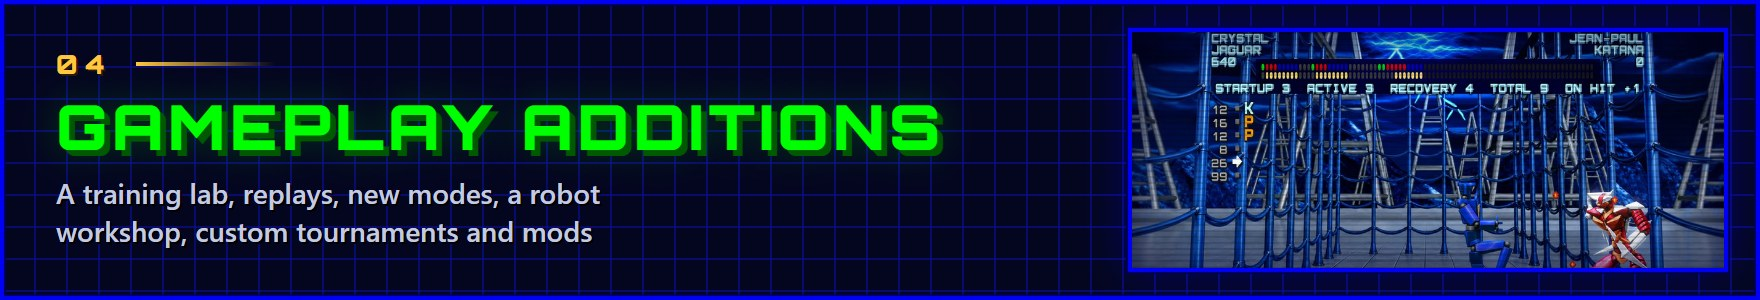
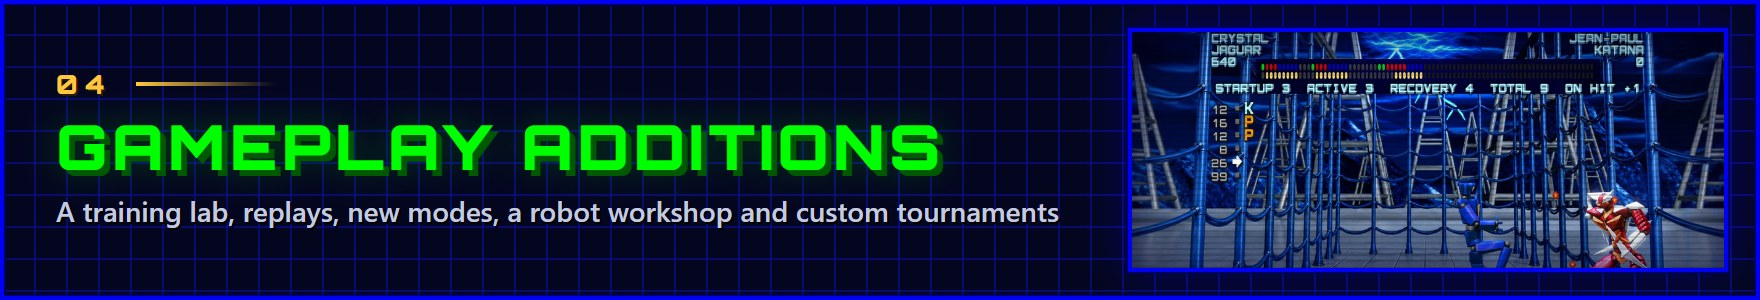
Present the new robots and arenas as the mod they are in the README
The game itself is the 1994 original: the README's first section now lists
only its content, and a new section, Mods & OMF Studio, holds the rest. It
explains mods, shows the new robots and arenas as the mod that comes with the
game (off until it is turned on) and as a complete example to open in OMF
Studio, and shows Studio with that mod open (its page, and GLACIER's ICE LANCE
being edited).

The later sections are numbered 06 to 10 (their banners and tiles made again
by tools/github/build.mjs), the Modding button goes to the new section, and the
other mentions of the new robots and arenas say they come as a mod.

Changed region(s): [[0.0312, 0.18, 0.625, 0.84]]

diff --git a/README.md b/README.md
@@ -6,7 +6,7 @@
   <a href="https://github.com/Jared-woodruff/OMF-2097-Remastered/releases/latest"><img src="docs/media/btn-download.png" alt="Download (free, for Windows)" height="56"></a>
   <a href="#trailer"><img src="docs/media/btn-trailer.png" alt="Trailer" height="56"></a>
   <a href="docs/manual/OMF-2097-Remastered-Manual.pdf"><img src="docs/media/btn-manual.png" alt="Manual (PDF)" height="56"></a>
-  <a href="docs/MODDING.md"><img src="docs/media/btn-modding.png" alt="Modding: mods and OMF Studio" height="56"></a>
+  <a href="#mods"><img src="docs/media/btn-modding.png" alt="Modding: mods and OMF Studio" height="56"></a>
 </p>
 
 <p align="center">
@@ -14,11 +14,12 @@
   <a href="#classic-remastered"><img src="docs/media/nav-modes.png" alt="02 Classic / Remastered" height="30"></a>
   <a href="#effects"><img src="docs/media/nav-effects.png" alt="03 Effects" height="30"></a>
   <a href="#gameplay"><img src="docs/media/nav-gameplay.png" alt="04 Gameplay" height="30"></a>
-  <a href="#screens"><img src="docs/media/nav-screens.png" alt="05 Screens" height="30"></a>
-  <a href="#artwork"><img src="docs/media/nav-artwork.png" alt="06 HD artwork" height="30"></a>
-  <a href="#get-started"><img src="docs/media/nav-start.png" alt="07 Get started" height="30"></a>
-  <a href="#under-the-hood"><img src="docs/media/nav-tech.png" alt="08 Under the hood" height="30"></a>
-  <a href="#credits"><img src="docs/media/nav-credits.png" alt="09 Credits" height="30"></a>
+  <a href="#mods"><img src="docs/media/nav-mods.png" alt="05 Mods and OMF Studio" height="30"></a>
+  <a href="#screens"><img src="docs/media/nav-screens.png" alt="06 Screens" height="30"></a>
+  <a href="#artwork"><img src="docs/media/nav-artwork.png" alt="07 HD artwork" height="30"></a>
+  <a href="#get-started"><img src="docs/media/nav-start.png" alt="08 Get started" height="30"></a>
+  <a href="#under-the-hood"><img src="docs/media/nav-tech.png" alt="09 Under the hood" height="30"></a>
+  <a href="#credits"><img src="docs/media/nav-credits.png" alt="10 Credits" height="30"></a>
 </p>
 
 <br>
@@ -31,7 +32,7 @@ https://github.com/user-attachments/assets/f226b2fa-c56a-4cce-b47a-8917a0448cf6
   <sub>A fan trailer with no narrator. It starts in 1994: a beige PC boots, the game is installed from two floppy disks,
   and it runs in its own pixels to its main menu theme (played by this port's music engine). Then, 32 years later, the
   picture sweeps into HD on the drop of Hadal Static's <i>Twenty Ninety-Seven (Remix)</i>: fights at ULTIMATE at the
-  game's own pace, the classic look against the new one, the new robots and arenas, every feature and the fought-out
+  game's own pace, the classic look against the new one, the new robots and arenas mod, every feature and the fought-out
   credits, cut to the song's bars (turn the sound on). <a href="docs/media/trailer.mp4">Watch it in 1080p60</a>.</sub>
 </p>
 
@@ -58,8 +59,9 @@ engine in TypeScript and WebGL2 that plays the **original game data**, runs in a
     <td width="33%" valign="top">
       <h3><img src="docs/media/icon-modern.png" alt="" width="26" align="top"> Modern</h3>
       Replays and clips, a training lab with frame data and combo trials, a robot workshop, arcade, survival and time
-      attack modes, custom tournaments, mods made with OMF Studio, gamepads with rumble, touch controls, one-button
-      specials, and a browser version that works offline.
+      attack modes, custom tournaments, mods and the OMF Studio mod tools (with a mod of four new robots and four
+      arenas to play and take apart), gamepads with rumble, touch controls, one-button specials, and a browser version
+      that works offline.
     </td>
   </tr>
 </table>
@@ -83,9 +85,9 @@ and the command lists come from the game's own data.
 The whole game is here, playing the original data files:
 
 - **All 11 robots** (HARs) with every move, special and throw, **10 pilots plus Major Kreissack**, and the CPU
-  opponent's personalities and difficulty levels, plus **four new robots** you can turn on (below).
+  opponent's personalities and difficulty levels.
 - **The five arenas and their hazards**: the Stadium, the spiked Danger Room, the Power Plant's electrified fences,
-  the Fire Pit's fireballs and the Desert's strafing jets, plus **four new arenas** you can turn on (below).
+  the Fire Pit's fireballs and the Desert's strafing jets.
 - **Every mode**: one player, two players, demo, the full **tournament** career with the mechlab, upgrades, training
   and newsroom, the scoreboard, the intro and all endings.
 - **The original music and sound**: the PSM soundtrack through a port of the MASI driver, the original samples, and
@@ -97,55 +99,9 @@ The whole game is here, playing the original data files:
   <img src="docs/media/arenas.jpg" alt="The five arenas: Stadium, Danger Room, Power Plant, Fire Pit and The Desert" width="100%">
 </p>
 
-### New for the remaster: four robots, four arenas
-
-Built for this remaster in the spirit of the originals, and packaged as a mod that comes with the game. They are **off
-by default**, so the game plays exactly like the original until you opt in: turn on *New robots and arenas* in
-**Extras › Mods**, or on the first start's setup screen.
-
-<p align="center">
-  <img src="docs/media/new-robots.jpg" alt="The new robots on the VS screen: GLACIER, TEMPEST, HELIX and SPECTRE" width="100%">
-</p>
-
-| Robot | Style | Special moves |
-| --- | --- | --- |
-| **GLACIER** | Heavy ice juggernaut: slow, strong, tough | **Ice Lance** ↓↘→ P, **Glacial Ram** ↓↙← K, **Frost Spikes** ↓↘→ K |
-| **TEMPEST** | Light and fast wind robot, high floaty jumps | **Gale Blast** ↓↙← P, **Cyclone Kick** ↓↘→ K, **Sky Dive** ↓ K in the air |
-| **HELIX** | Industrial driller with a spiral drill and a claw | **Drill Rush** ↓↘→ P, **Corkscrew** →↓↘ P, **Drill Bit** ↓↙← P |
-| **SPECTRE** | Phantom with forearm lasers and a cloak of blades | **Photon Beam** ↓↘→ P, **Phase Shift** ↓↙← K, **Shadow Strike** ↓↘→ K |
-
-They are built like the originals: faceted armor over slim, ribbed joints, in the player's three colors used the
-original way (the armor, the joints, a few signature accents). Their classic sprites are rendered from 3D models and
-shaded like the originals' 1994 renders; their HD artwork, every frame of their animations, was painted over those
-renders by an image generation model, held to each sprite's outline and color zones so it takes the players' colors
-like the originals' artwork. Each has the full basic move set, a throw, a scrap and a destruction finisher, CPU
-tactics for its specials and names in the pause menu's move list. Turned on, they sit in a third row of the robot
-select screen (move down past the second row), join the CPU opponents, and turn up among the robots Plug offers to
-trade in tournaments, with their own turning model and select buttons in the mechlab.
-
-<p align="center">
-  <img src="docs/media/new-arenas.jpg" alt="The new arenas: Orbital, Ice Cave, Rooftop and Abyss" width="100%">
-</p>
-
-- **Orbital**: a space station's hangar deck with the Earth in the window. Dust floats, sparks drift in the low
-  gravity and the stars twinkle.
-- **Ice Cave**: a frozen cavern under the aurora. Snow blows in, frost mist creeps over the ice and the crystals
-  sparkle.
-- **Rooftop**: a skyscraper roof in the rain, above a neon city. Raindrops splash on the wet roof, lightning flashes
-  over the skyline and the neon sign flickers.
-- **Abyss**: a glass dome on the sea floor. Bubbles rise, caustics ripple over the floor and light falls from above.
-
-<p align="center">
-  <img src="docs/media/new-arenas.gif" alt="Fights in the new arenas: Orbital, Ice Cave, Rooftop and Abyss" width="100%">
-</p>
-
-Turned on, they join the arena rotation of one and two player games and tournaments. All four have true widescreen backgrounds (not
-mirrored edges), HD versions, their own acoustics and music. The new
-robots bring their own effects too: frost and ice shards, whirlwinds, drill sparks and shavings, laser glow and a
-phase-shift shimmer. Everything new is original: the robots and arenas are 3D models in [`src/gen`](src/gen), ray
-traced into the game's own formats, and an image generation model painted their HD artwork and the arenas' backgrounds
-over those renders; all of it is packed into their mod's file in [`public/mods/`](public/mods) (see
-[docs/ARCHITECTURE.md](docs/ARCHITECTURE.md) and [docs/BUILDING.md](docs/BUILDING.md)).
+Four more robots and four more arenas were made for the remaster. They are not part of the game itself: they come
+with it as a mod, to play when you want them, and to open in OMF Studio to see how a mod is made (see
+[Mods & OMF Studio](#mods)).
 
 <br>
 
@@ -222,7 +178,7 @@ Remastered fights get a layer of modern effects, driven by what actually happens
 | **Particles** | Sparks and impact flares on hits and blocks, dust from falls, throws and wall slams. |
 | **Lighting** | Impacts, fire, energy and projectiles light up the arena and the robots; each arena lights the robots' edges. |
 | **Impact FX** | Shockwaves on heavy hits, and the knockout camera with flash and chromatic aberration. |
-| **Atmosphere** | Embers and heat haze, blowing sand, drifting dust, floodlight glow and camera flashes in the crowd; in the new arenas snow, frost mist, aurora light, rain and splashes, lightning, neon flicker, bubbles and caustics. |
+| **Atmosphere** | Embers and heat haze, blowing sand, drifting dust, floodlight glow and camera flashes in the crowd; in the arenas of the new robots and arenas mod, snow, frost mist, aurora light, rain and splashes, lightning, neon flicker, bubbles and caustics. |
 
 In widescreen the arena's painting reaches past the fighting area, whose edges are those of the original screen: they
 show as faint energy curtains in the arena's light, which glow where a robot is held against them and flare and ripple
@@ -288,10 +244,11 @@ as an **animated GIF**.
 
 #### Robot workshop
 
-Build your own robots from the new robots' parts: the frame of one, the head of another, the special moves and
-finishers of a third, a size, a weight class and three colors, with a live picture as you go. The game builds a full
-fighter from it on the spot (every sprite, move and hit point, and the HD artwork), ready to try in training or
-against the computer. Robots are shared as small `.omfbot` files.
+Build your own robots from the parts of the new robots (GLACIER, TEMPEST, HELIX and SPECTRE; their mod does not need
+to be on): the frame of one, the head of another, the special moves and finishers of a third, a size, a weight class
+and three colors, with a live picture as you go. The game builds a full fighter from it on the spot (every sprite,
+move and hit point, and the HD artwork), ready to try in training or against the computer. Robots are shared as small
+`.omfbot` files.
 
 <p align="center">
   <img src="docs/media/workshop.jpg" alt="The robot workshop: a GLACIER frame with a SPECTRE head and TEMPEST's moves" width="100%">
@@ -300,26 +257,9 @@ against the computer. Robots are shared as small `.omfbot` files.
 #### Custom tournaments
 
 Make your own tournaments from the installed ones: fewer opponents (spread over the ranks, the champion always among
-them), their robots as they were or on the new robots, more or less prize money. They show up in **Tournament play**
-like the others and are shared as `.omftrn` files. The new arenas join the tournament's arenas too when they are on.
-
-#### Mods and OMF Studio
-
-New robots, arenas and pilots made by players, installed from `.omfmod` files (drop one on the game, or **Extras ›
-Mods**). They play like the game's own: every animation, move and hit point, in classic and remastered graphics, on
-the select screens, in the arena rotation, the modes and replays. The remaster's four new robots and arenas are a mod
-too, one that comes with the game: the same page turns them on and off.
-
-**OMF Studio**, the game's mod tools (**Extras › OMF Studio**; setup can add its shortcuts), makes them in the game's
-own formats, pixel for pixel: robots from a copy of one of the game's (the new ones too, with their HD artwork), from
-the workshop's parts or from a blank figure, drawn frame by frame in the game's palette with their hit points, their
-moves' inputs, damage and reactions; arenas from a copy or a picture; pilots with portraits, lines and an ending.
-**Test** plays the mod in the game right away, and **The new robots and arenas** opens a copy of their mod to take
-apart. See [docs/MODDING.md](docs/MODDING.md).
-
-<p align="center">
-  <img src="docs/media/studio.jpg" alt="OMF Studio: a robot's special move, its frames, tags, input and hit points" width="100%">
-</p>
+them), their robots as they were or on the new robots (with their mod on), more or less prize money. They show up in
+**Tournament play** like the others and are shared as `.omftrn` files. The mod's arenas join the tournament's arenas
+too when it is on.
 
 #### Presentation
 
@@ -373,7 +313,7 @@ apart. See [docs/MODDING.md](docs/MODDING.md).
 
 - **Set up at the first start**: when the game has loaded for the first time (and once after an update from an earlier
   version), a setup screen lets you pick the graphics, the effects, the announcer, the music, the new robots and arenas
-  and the keyboard layout, or take the original 1994 style in one press. It is all in **Options** afterwards.
+  mod and the keyboard layout, or take the original 1994 style in one press. It is all in **Options** afterwards.
 - **A tidier main menu**: the original's three ways to play first, then **More modes** (arcade, survival, time attack,
   training, your own tournaments), **Extras** (the robot workshop, mods, OMF Studio, replays, records, the scoreboard,
   the demo, the credits), **Options** (every setting, grouped: gameplay, controls, graphics, sound, language), Help and
@@ -393,8 +333,97 @@ apart. See [docs/MODDING.md](docs/MODDING.md).
 
 <br>
 
+<a id="mods"></a>
+<p align="center"><a href="#mods"><img src="docs/media/banner-mods.jpg" alt="05 · Mods & OMF Studio" width="100%"></a></p>
+
+New robots, arenas and pilots come as **mods**: `.omfmod` files the game installs when one is dropped on it (or in
+**Extras › Mods**, which also turns them on and off). They play like the game's own: every animation, move and hit
+point, in classic and remastered graphics, on the select screens, in the arena rotation, the modes and replays.
+**OMF Studio**, the game's mod tools, makes them, and the game comes with one to show what a mod can be: **the new
+robots and arenas**.
+
+### The new robots and arenas
+
+Four robots and four arenas built for the remaster in the spirit of the originals. They are not part of the game
+itself, which stays the 1994 original: they are a mod that is installed with the game and **off** until you turn on
+*New robots and arenas* in **Extras › Mods** (or on the first start's setup screen). It is made like any other mod,
+so it is also a complete example of one: open it in OMF Studio (**The new robots and arenas** on its start screen)
+to see how every animation, move, hit point and HD picture is put together, or change them and make them your own.
+
+<p align="center">
+  <img src="docs/media/new-robots.jpg" alt="The new robots on the VS screen: GLACIER, TEMPEST, HELIX and SPECTRE" width="100%">
+</p>
+
+| Robot | Style | Special moves |
+| --- | --- | --- |
+| **GLACIER** | Heavy ice juggernaut: slow, strong, tough | **Ice Lance** ↓↘→ P, **Glacial Ram** ↓↙← K, **Frost Spikes** ↓↘→ K |
+| **TEMPEST** | Light and fast wind robot, high floaty jumps | **Gale Blast** ↓↙← P, **Cyclone Kick** ↓↘→ K, **Sky Dive** ↓ K in the air |
+| **HELIX** | Industrial driller with a spiral drill and a claw | **Drill Rush** ↓↘→ P, **Corkscrew** →↓↘ P, **Drill Bit** ↓↙← P |
+| **SPECTRE** | Phantom with forearm lasers and a cloak of blades | **Photon Beam** ↓↘→ P, **Phase Shift** ↓↙← K, **Shadow Strike** ↓↘→ K |
+
+They are built like the originals: faceted armor over slim, ribbed joints, in the player's three colors used the
+original way (the armor, the joints, a few signature accents). Their classic sprites are rendered from 3D models and
+shaded like the originals' 1994 renders; their HD artwork, every frame of their animations, was painted over those
+renders by an image generation model, held to each sprite's outline and color zones so it takes the players' colors
+like the originals' artwork. Each has the full basic move set, a throw, a scrap and a destruction finisher, CPU
+tactics for its specials and names in the pause menu's move list. With the mod on, they sit in a third row of the
+robot select screen (move down past the second row), join the CPU opponents, and turn up among the robots Plug offers
+to trade in tournaments, with their own turning model and select buttons in the mechlab.
+
+<p align="center">
+  <img src="docs/media/new-arenas.jpg" alt="The new arenas: Orbital, Ice Cave, Rooftop and Abyss" width="100%">
+</p>
+
+- **Orbital**: a space station's hangar deck with the Earth in the window. Dust floats, sparks drift in the low
+  gravity and the stars twinkle.
+- **Ice Cave**: a frozen cavern under the aurora. Snow blows in, frost mist creeps over the ice and the crystals
+  sparkle.
+- **Rooftop**: a skyscraper roof in the rain, above a neon city. Raindrops splash on the wet roof, lightning flashes
+  over the skyline and the neon sign flickers.
+- **Abyss**: a glass dome on the sea floor. Bubbles rise, caustics ripple over the floor and light falls from above.
+
+<p align="center">
+  <img src="docs/media/new-arenas.gif" alt="Fights in the new arenas: Orbital, Ice Cave, Rooftop and Abyss" width="100%">
+</p>
+
+With the mod on, the arenas join the arena rotation of one and two player games and tournaments. All four have true
+widescreen backgrounds (not mirrored edges), HD versions, their own acoustics and music, and the robots bring their
+own effects: frost and ice shards, whirlwinds, drill sparks and shavings, laser glow and a phase-shift shimmer.
+Everything in the mod is original: the robots and arenas are 3D models in [`src/gen`](src/gen), ray traced into the
+game's own formats, and an image generation model painted their HD artwork and the arenas' backgrounds over those
+renders; it is all packed into the mod's file in [`public/mods/`](public/mods) (see
+[docs/ARCHITECTURE.md](docs/ARCHITECTURE.md) and [docs/BUILDING.md](docs/BUILDING.md)).
+
+### OMF Studio
+
+**OMF Studio** (**Extras › OMF Studio**; setup can also add its own shortcuts) makes mods in the game's own formats,
+pixel for pixel, and tests them in the game itself. Its start screen opens a new mod, a mod file, a small sample, or a
+copy of the new robots and arenas.
+
+<p align="center">
+  <img src="docs/media/studio-mod.jpg" alt="OMF Studio with the new robots and arenas mod open: its four robots and four arenas" width="100%">
+</p>
+
+- **Robots** start as a copy of one of the game's (the new ones too, with their HD artwork), from the robot
+  workshop's parts, or as a blank figure. They are drawn frame by frame in the game's palette, with their hit points,
+  their moves' inputs, damage and reactions, and their stats shown against the original robots'.
+- **Arenas** start as a copy or from a picture, with their hazards, scenery and music; **pilots** get portraits,
+  lines, a personality for the computer to fight with, and an ending.
+- **HD artwork** for the remastered look: templates to paint over, or pictures rendered from a robot's 3D model.
+- **Test** plays the mod in the game over Studio: a fight, the computer against itself, training, or the one-player
+  game. **Install in game** installs it, **Build file** makes the `.omfmod` file to share, and every change can be
+  undone.
+
+<p align="center">
+  <img src="docs/media/studio.jpg" alt="OMF Studio: GLACIER's special move ICE LANCE, its frames, tags, input and HD pictures" width="100%">
+</p>
+
+The mod format, OMF Studio's editors and how the game loads mods are in [docs/MODDING.md](docs/MODDING.md).
+
+<br>
+
 <a id="screens"></a>
-<p align="center"><a href="#screens"><img src="docs/media/banner-screens.jpg" alt="05 · Every screen, every mode" width="100%"></a></p>
+<p align="center"><a href="#screens"><img src="docs/media/banner-screens.jpg" alt="06 · Every screen, every mode" width="100%"></a></p>
 
 <p align="center">
   <img src="docs/media/menus.gif" alt="The main menu, the options, the controls menu and the controls screen" width="49%">
@@ -424,7 +453,7 @@ background, so text stays readable over detailed HD artwork.
 <br>
 
 <a id="artwork"></a>
-<p align="center"><a href="#artwork"><img src="docs/media/banner-artwork.jpg" alt="06 · HD artwork pipeline" width="100%"></a></p>
+<p align="center"><a href="#artwork"><img src="docs/media/banner-artwork.jpg" alt="07 · HD artwork pipeline" width="100%"></a></p>
 
 The HD artwork was produced with an image generation model from the original images, then imported into texture
 atlases the game loads on demand:
@@ -443,7 +472,7 @@ flowchart LR
 - **Live colors**: each HD pixel is mapped through the palette change of the original pixel it belongs to, so the
   artwork follows player color choices, fades, flashes and tints exactly like the original sprites.
 - **Streaming**: bundles per scene, robot and shared effects load on demand, and scene changes preload the next ones.
-- **The new robots and arenas** have a pack of their own (`npm run newart:export` / `newart:import`): each arena is
+- **The new robots and arenas mod** has a pack of its own (`npm run newart:export` / `newart:import`): each arena is
   painted again as one widescreen picture, and each robot gets a design sheet and then every frame redrawn from it,
   clipped to the sprite's outline when imported into their mod.
 
@@ -455,7 +484,7 @@ a pack of your own.
 <br>
 
 <a id="get-started"></a>
-<p align="center"><a href="#get-started"><img src="docs/media/banner-start.jpg" alt="07 · Get started" width="100%"></a></p>
+<p align="center"><a href="#get-started"><img src="docs/media/banner-start.jpg" alt="08 · Get started" width="100%"></a></p>
 
 **To play**, download version 0.1.5 for Windows: the
 [installer](https://github.com/Jared-woodruff/OMF-2097-Remastered/releases/download/v0.1.5/OMF-2097-Remastered-0.1.5-setup.exe), or the portable
@@ -521,7 +550,7 @@ resolution.
 <br>
 
 <a id="under-the-hood"></a>
-<p align="center"><a href="#under-the-hood"><img src="docs/media/banner-tech.jpg" alt="08 · Under the hood" width="100%"></a></p>
+<p align="center"><a href="#under-the-hood"><img src="docs/media/banner-tech.jpg" alt="09 · Under the hood" width="100%"></a></p>
 
 ```mermaid
 %%{init: {'theme': 'base', 'themeVariables': {'background': '#04061f', 'primaryColor': '#0b1142', 'primaryTextColor': '#e7eaf3', 'primaryBorderColor': '#0000f3', 'secondaryColor': '#060926', 'tertiaryColor': '#04061f', 'lineColor': '#5a6cff', 'clusterBkg': '#060926', 'clusterBorder': '#2b3bcf', 'edgeLabelBackground': '#04061f'}}}%%
@@ -553,7 +582,7 @@ flowchart LR
 <br>
 
 <a id="credits"></a>
-<p align="center"><a href="#credits"><img src="docs/media/banner-credits.jpg" alt="09 · Credits and legal" width="100%"></a></p>
+<p align="center"><a href="#credits"><img src="docs/media/banner-credits.jpg" alt="10 · Credits and legal" width="100%"></a></p>
 
 - **The remaster**: [Jared Woodruff](https://github.com/Jared-woodruff) (human coder), Claude Opus 5.5 in Max Mode (AI
   coder), OpenAI GPT6-ASTRA in Ultra Mode (AI image rendering of the HD artwork).
